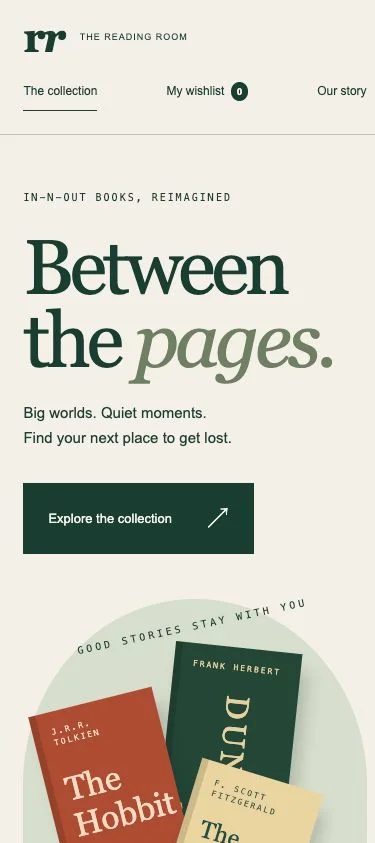
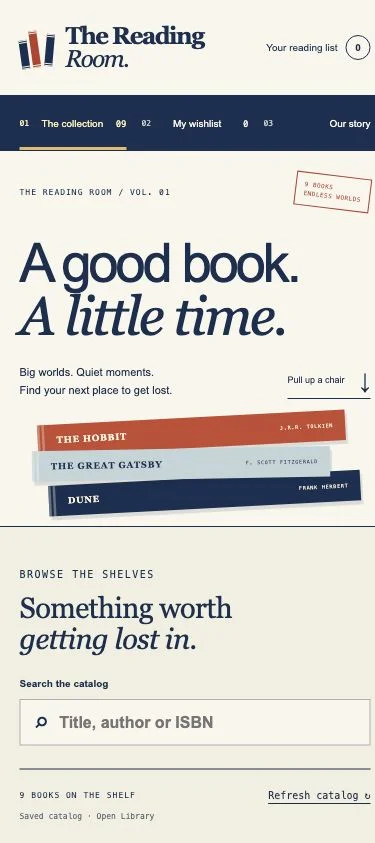
Refresh five projects with distinct designs and screenshots (#18)
* Refresh five case studies with distinct project designs

* Avoid duplicate audits and bound registry network retries

* Capture the final published map and event designs

diff --git a/src/content/projects/still.md b/src/content/projects/still.md
@@ -1,9 +1,9 @@
 ---
-title: "Still"
-description: "A calm task list with local persistence, completion filters and a tactile sage-and-paper design."
+title: 'Still'
+description: 'A colorful task workspace with local persistence, completion filters and playful progress feedback.'
 category: 'Web app'
 builtWithAI: true
-tags: ["JavaScript", "Local storage", "DOM"]
+tags: ['JavaScript', 'Local storage', 'DOM']
 year: 2026
 order: 16
 status: 'Live'
@@ -11,16 +11,16 @@ visual: 'web'
 repository: 'https://github.com/GrimSyntaxCloud/javascript-showcase'
 demo: 'https://grimsyntaxcloud.github.io/javascript-showcase/still/'
 image: 'images/projects/still-home.webp'
-imageAlt: "Still task manager with sage navigation, paper-colored content and a stacked-stone illustration."
+imageAlt: 'Still task manager with a lavender workspace, cream task sheet, mint progress card and purple flower.'
 imageFit: 'contain'
 screenshots:
   - src: 'images/projects/still-home.webp'
-    alt: "Still task manager with sage navigation, paper-colored content and a stacked-stone illustration."
+    alt: 'Still task manager with a lavender workspace, cream task sheet, mint progress card and purple flower.'
     caption: 'The refreshed desktop interface preserves the original project workflow.'
-    width: 1600
-    height: 987
+    width: 1425
+    height: 1069
   - src: 'images/projects/still-mobile.webp'
-    alt: "Still on a narrow mobile screen."
+    alt: 'Still on a narrow mobile screen.'
     caption: 'The opening mobile view, checked for readable content and controls that fit.'
     width: 375
     height: 843
@@ -28,7 +28,7 @@ screenshots:
 
 ## The project
 
-Still is a quieter take on my earlier JavaScript to-do list. A sage sidebar, generous spacing and CSS stone artwork give a simple daily workflow room to breathe.
+Still gives my earlier JavaScript to-do list a colorful place to focus. A lavender dotted workspace holds a cream task sheet, mint progress card, coral sticker and a butter-yellow reminder. A CSS flower responds to completed tasks with a short celebratory motion.
 
 Add tasks, mark them complete, filter the list and remove finished items. Progress feedback helps show what is left without turning the page into a complicated dashboard.
 
@@ -40,4 +40,4 @@ This is a browser-local tool: it does not create accounts or synchronize tasks b
 
 ## Built together
 
-I worked with ChatGPT/Codex to recover the original functionality and redesign it around a calmer visual identity. We verified add, complete, filter, delete and reload persistence, then checked the narrow-screen layout. GitHub Pages serves the app without a backend or paid service.
+I worked with ChatGPT/Codex to recover the original functionality and redesign it around a playful, focused visual identity. We verified add, complete, filter, delete and reload persistence, then checked the narrow-screen layout. GitHub Pages serves the app without a backend or paid service.

diff --git a/src/content/projects/reading-room.md b/src/content/projects/reading-room.md
@@ -1,9 +1,9 @@
 ---
-title: "The Reading Room"
-description: "An Angular bookshop-style catalog with book details, search and a saved wishlist."
+title: 'The Reading Room'
+description: 'An Angular bookshop-style catalog with book details, search and a saved wishlist.'
 category: 'Web app'
 builtWithAI: true
-tags: ["Angular", "TypeScript", "Open Library"]
+tags: ['Angular', 'TypeScript', 'Open Library']
 year: 2026
 order: 17
 status: 'Live'
@@ -11,16 +11,16 @@ visual: 'web'
 repository: 'https://github.com/GrimSyntaxCloud/angular-showcase'
 demo: 'https://grimsyntaxcloud.github.io/angular-showcase/reading-room/'
 image: 'images/projects/reading-room-home.webp'
-imageAlt: "The Reading Room catalog with forest-green navigation, cream pages and illustrated book covers."
+imageAlt: 'The Reading Room with an ink-blue library index, parchment reading desk and dimensional illustrated books.'
 imageFit: 'contain'
 screenshots:
   - src: 'images/projects/reading-room-home.webp'
-    alt: "The Reading Room catalog with forest-green navigation, cream pages and illustrated book covers."
+    alt: 'The Reading Room with an ink-blue library index, parchment reading desk and dimensional illustrated books.'
     caption: 'The refreshed desktop interface preserves the original project workflow.'
-    width: 915
-    height: 1600
+    width: 1600
+    height: 739
   - src: 'images/projects/reading-room-mobile.webp'
-    alt: "The Reading Room on a narrow mobile screen."
+    alt: 'The Reading Room on a narrow mobile screen.'
     caption: 'The opening mobile view, checked for readable content and controls that fit.'
     width: 375
     height: 843
@@ -28,7 +28,7 @@ screenshots:
 
 ## The project
 
-The Reading Room recovers the In-N-Out Books app inside my Angular coursework. Its original nine-book catalog now lives in a forest-green and ivory bookshop layout, with typographic book artwork and an easier route into each title.
+The Reading Room recovers the In-N-Out Books app inside my Angular coursework. Its original nine-book catalog now lives on a parchment reading desk with an ink-blue library index, stacked book spines and individually illustrated jackets. Subtle opening effects and layered page edges give the bookshelf depth while keeping the catalog easy to browse.
 
 Explore the catalog, search for a book, open its details or add an entry to your wishlist. The wishlist is saved in the current browser.
 

diff --git a/src/content/projects/city-atlas.md b/src/content/projects/city-atlas.md
@@ -1,9 +1,9 @@
 ---
-title: "City Atlas"
-description: "An interactive D3 map exploring a historical sample of 50 U.S. cities."
+title: 'City Atlas'
+description: 'An interactive D3 map exploring a historical sample of 50 U.S. cities.'
 category: 'Web app'
 builtWithAI: true
-tags: ["D3", "JavaScript", "Data visualization"]
+tags: ['D3', 'JavaScript', 'Data visualization']
 year: 2026
 order: 20
 status: 'Live'
@@ -11,16 +11,16 @@ visual: 'web'
 repository: 'https://github.com/GrimSyntaxCloud/city-atlas'
 demo: 'https://grimsyntaxcloud.github.io/city-atlas/'
 image: 'images/projects/city-atlas-home.webp'
-imageAlt: "City Atlas with a paper-and-ink United States map, proportional city markers and a ranked city index."
+imageAlt: 'City Atlas with a midnight-blue map workspace, cyan markers, chartreuse selection and a city directory rail.'
 imageFit: 'contain'
 screenshots:
   - src: 'images/projects/city-atlas-home.webp'
-    alt: "City Atlas with a paper-and-ink United States map, proportional city markers and a ranked city index."
+    alt: 'City Atlas with a midnight-blue map workspace, cyan markers, chartreuse selection and a city directory rail.'
     caption: 'The refreshed desktop interface preserves the original project workflow.'
-    width: 1265
-    height: 1400
+    width: 1425
+    height: 1188
   - src: 'images/projects/city-atlas-mobile.webp'
-    alt: "City Atlas on a narrow mobile screen."
+    alt: 'City Atlas on a narrow mobile screen.'
     caption: 'The opening mobile view, checked for readable content and controls that fit.'
     width: 375
     height: 843
@@ -28,7 +28,7 @@ screenshots:
 
 ## The project
 
-City Atlas recovers the D3 mapping exercise from my Emerging-tech coursework. A paper-and-ink cartographic layout puts the map, selected city and searchable index into one responsive workspace.
+City Atlas recovers the D3 mapping exercise from my Emerging-tech coursework. A midnight-blue urban observatory puts a cyan map, chartreuse city selection and searchable directory into a single cartographic workspace. A selection reticle adds a focused visual response as you explore; the mobile layout places the map above the directory.
 
 Explore 50 cities, filter the top 10 or 25, toggle state labels, step through the selection or download the CSV. Marker area remains proportional to population.
 

diff --git a/src/content/projects/eny-salon.md b/src/content/projects/eny-salon.md
@@ -11,14 +11,14 @@ visual: 'web'
 repository: 'https://github.com/GrimSyntaxCloud/eny-salon'
 demo: 'https://zealous-grass-00a9b990f.3.azurestaticapps.net/'
 image: 'images/projects/eny-salon-home.webp'
-imageAlt: 'Eny Salon with cream and copper colors, editorial typography and salon line artwork.'
+imageAlt: 'Eny Salon with a giant peach masthead, aubergine background, sculptural satin artwork and curved rose sections.'
 imageFit: 'contain'
 screenshots:
   - src: 'images/projects/eny-salon-home.webp'
-    alt: 'Eny Salon with cream and copper colors, editorial typography and salon line artwork.'
+    alt: 'Eny Salon with a giant peach masthead, aubergine background, sculptural satin artwork and curved rose sections.'
     caption: 'The redesigned desktop experience.'
-    width: 1600
-    height: 739
+    width: 1425
+    height: 990
   - src: 'images/projects/eny-salon-mobile.webp'
     alt: 'Eny Salon on a narrow mobile screen.'
     caption: 'A closer look at the responsive mobile experience.'
@@ -28,7 +28,7 @@ screenshots:
 
 ## The project
 
-Eny Salon began as my PHP salon-booking coursework. The recovery keeps its original services and prices, giving the experience a warm cream, copper and sage identity with original salon artwork.
+Eny Salon began as my PHP salon-booking coursework. The recovery keeps its original services and prices, giving the experience a bold aubergine-and-peach beauty-studio identity. A giant ENY masthead, sculptural satin artwork, horizontal service rows and curved rose sections establish a distinct layout across the booking and staff workflows.
 
 Explore the service menu, choose an available appointment, enter fictional customer details and try the staff workspace. Appointment editing, rescheduling, availability management and a message inbox demonstrate the complete workflow.
 

diff --git a/src/content/projects/interval.md b/src/content/projects/interval.md
@@ -11,11 +11,11 @@ visual: 'web'
 repository: 'https://github.com/GrimSyntaxCloud/javascript-showcase'
 demo: 'https://lively-desert-0d824e10f.2.azurestaticapps.net/'
 image: 'images/projects/interval-home.webp'
-imageAlt: 'Interval event page with lilac and apricot panels, editorial type and a registration form.'
+imageAlt: 'Interval event poster with acid-yellow typography, cobalt statistics, pink registration and optical ring artwork.'
 imageFit: 'contain'
 screenshots:
   - src: 'images/projects/interval-home.webp'
-    alt: 'Interval event page with lilac and apricot panels, editorial type and a registration form.'
+    alt: 'Interval event poster with acid-yellow typography, cobalt statistics, pink registration and optical ring artwork.'
     caption: 'The redesigned desktop experience.'
     width: 1600
     height: 739
@@ -23,12 +23,12 @@ screenshots:
     alt: 'Interval on a narrow mobile screen.'
     caption: 'A closer look at the responsive mobile experience.'
     width: 375
-    height: 843
+    height: 812
 ---
 
 ## The project
 
-Interval recovers my JavaScript event-registration exercise as a fictional creative event. An editorial layout, lilac and apricot palette, and dimensional CSS artwork give the form and statistics a shared identity.
+Interval recovers my JavaScript event-registration exercise as a fictional creative event. An oversized festival-poster layout uses acid yellow, cobalt and hot pink, optical ring artwork and a ticket-style registration form. Motion can be paused and respects reduced-motion preferences.
 
 Use the fictional sample-fill option, submit the form and explore the three statistics views. The server validates the request and returns a clear result.
 
